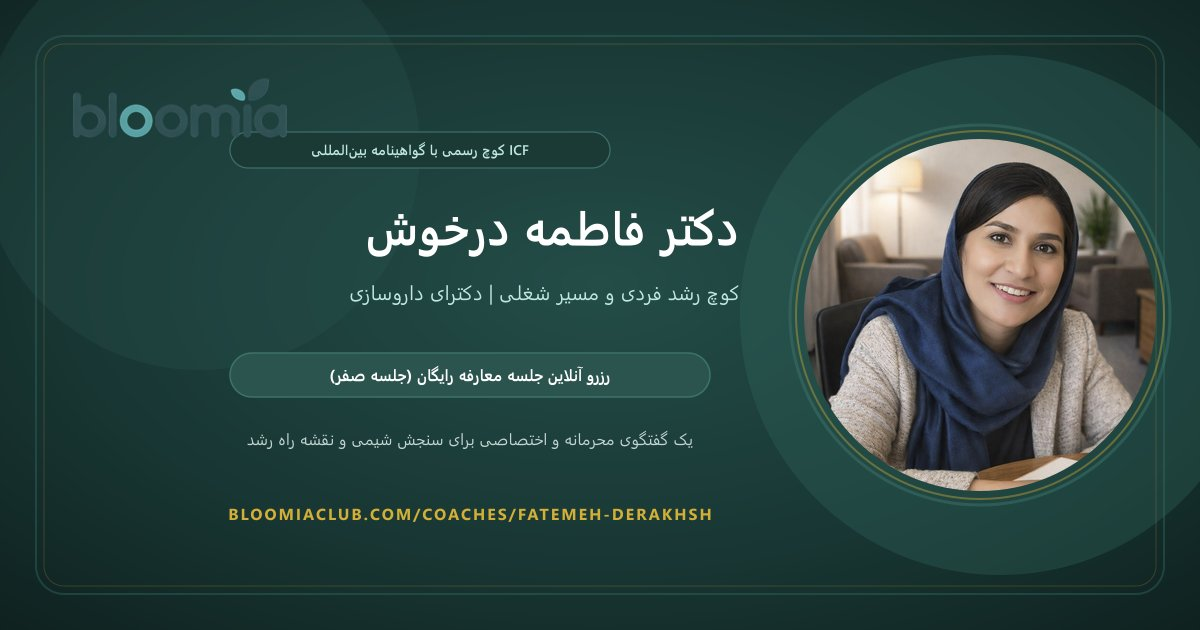
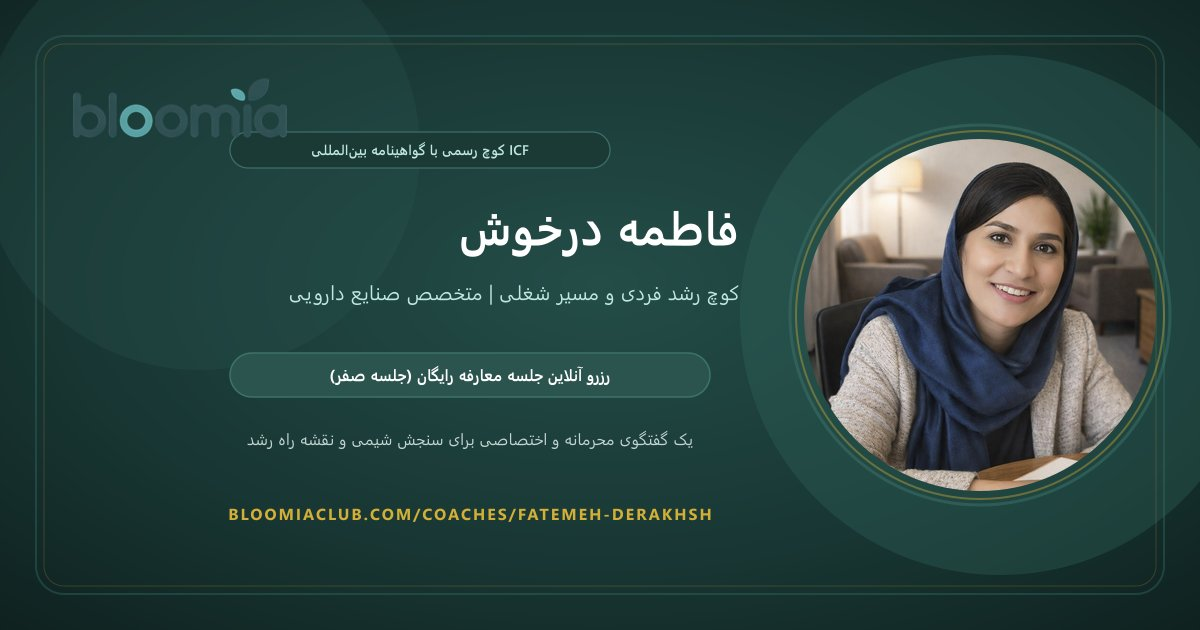
fix(coach): update Fatemeh Darkhosh title to pharmaceutical specialist and remove doctorate prefix

Changed region(s): [[0.3083, 0.3317, 0.6167, 0.4222], [0.2467, 0.4524, 0.4008, 0.4825]]

diff --git a/src/lib/coaches.ts b/src/lib/coaches.ts
@@ -1441,18 +1441,18 @@ export const fallbackCoaches: CoachProfile[] = [
   },
 
   // ==========================================
-  // FATEMEH DERAKHSH (دکتر فاطمه درخوش)
+  // FATEMEH DERAKHSH (فاطمه درخوش)
   // ==========================================
   {
     id: 'coach-profile-fatemeh-derakhsh',
     slug: 'fatemeh-derakhsh',
-    name: 'دکتر فاطمه درخوش',
-    title: 'کوچ رشد فردی و مسیر شغلی | دکترای داروسازی',
+    name: 'فاطمه درخوش',
+    title: 'کوچ رشد فردی و مسیر شغلی | متخصص صنایع دارویی',
     eyebrow: 'کوچ حرفهای بلومیا',
-    shortBio: 'دکترای داروسازی، کوچ تایید شده ICF؛ همراهی با مراجعان در عبور از سردرگمی یا مکث در کار و زندگی برای کشف و بازطراحی مسیر اصیل.',
-    description: 'دکترای داروسازی، کوچ تایید شده ICF؛ همراهی با مراجعان در عبور از سردرگمی یا مکث در کار و زندگی برای کشف و بازطراحی مسیر اصیل.',
-    longBio: `من دکتر فاطمه درخوش هستم؛ با بیش از ۱۰ سال سابقه فعالیت حرفهای در صنعت دارو، تجربه چندین ساله در دانشگاه و آموزش تخصصی، و کوچ حرفهای مورد تأیید فدراسیون بینالمللی کوچینگ آمریکا (ICF).\n\nدر مسیر کاریام، بارها با متخصصان و افرادی مواجه شدم که از نگاه بیرونی کاملاً «موفق» به نظر میرسیدند، اما در درون، دچار سردرگمی، فرسودگی یا نارضایتی شغلی بودند؛ و خودم نیز این تجربهها را در مقاطع مختلف زندگی زیستهام. همین تجربیات ارزشمند باعث شد تا عمیقاً به موضوع خودشناسی فردی و شغلی، تصمیمگیری آگاهانه و بازتعریف نسبت انسان با کار و زندگی بپردازم.\n\nدر جلسات کوچینگ، با ترکیب نگاه تحلیلی، تجربه زیسته و چارچوبهای حرفهای ICF، همراه مراجعان میشوم تا به جای دریافت نسخههای آماده، به بینش، شفافیت و انتخابهای اصیل خودشان برسند. باور من این است که تغییر پایدار از درک عمیق خود و پذیرش مسئولیت انتخابها آغاز میشود؛ و کوچینگ فضایی امن و بدون قضاوت است برای مکث، دیدن و دوباره انتخابکردن.`,
-    longDescription: `من دکتر فاطمه درخوش هستم؛ با بیش از ۱۰ سال سابقه فعالیت حرفهای در صنعت دارو، تجربه چندین ساله در دانشگاه و آموزش تخصصی، و کوچ حرفهای مورد تأیید فدراسیون بینالمللی کوچینگ آمریکا (ICF).\n\nدر مسیر کاریام، بارها با متخصصان و افرادی مواجه شدم که از نگاه بیرونی کاملاً «موفق» به نظر میرسیدند، اما در درون، دچار سردرگمی، فرسودگی یا نارضایتی شغلی بودند؛ و خودم نیز این تجربهها را در مقاطع مختلف زندگی زیستهام. همین تجربیات ارزشمند باعث شد تا عمیقاً به موضوع خودشناسی فردی و شغلی، تصمیمگیری آگاهانه و بازتعریف نسبت انسان با کار و زندگی بپردازم.\n\nدر جلسات کوچینگ، با ترکیب نگاه تحلیلی، تجربه زیسته و چارچوبهای حرفهای ICF، همراه مراجعان میشوم تا به جای دریافت نسخههای آماده، به بینش، شفافیت و انتخابهای اصیل خودشان برسند. باور من این است که تغییر پایدار از درک عمیق خود و پذیرش مسئولیت انتخابها آغاز میشود؛ و کوچینگ فضایی امن و بدون قضاوت است برای مکث، دیدن و دوباره انتخابکردن.`,
+    shortBio: 'متخصص صنایع دارویی، کوچ تایید شده ICF؛ همراهی با مراجعان در عبور از سردرگمی یا مکث در کار و زندگی برای کشف و بازطراحی مسیر اصیل.',
+    description: 'متخصص صنایع دارویی، کوچ تایید شده ICF؛ همراهی با مراجعان در عبور از سردرگمی یا مکث در کار و زندگی برای کشف و بازطراحی مسیر اصیل.',
+    longBio: `من فاطمه درخوش هستم؛ با بیش از ۱۰ سال سابقه فعالیت حرفهای در صنعت دارو، تجربه چندین ساله در دانشگاه و آموزش تخصصی، و کوچ حرفهای مورد تأیید فدراسیون بینالمللی کوچینگ آمریکا (ICF).\n\nدر مسیر کاریام، بارها با متخصصان و افرادی مواجه شدم که از نگاه بیرونی کاملاً «موفق» به نظر میرسیدند، اما در درون، دچار سردرگمی، فرسودگی یا نارضایتی شغلی بودند؛ و خودم نیز این تجربهها را در مقاطع مختلف زندگی زیستهام. همین تجربیات ارزشمند باعث شد تا عمیقاً به موضوع خودشناسی فردی و شغلی، تصمیمگیری آگاهانه و بازتعریف نسبت انسان با کار و زندگی بپردازم.\n\nدر جلسات کوچینگ، با ترکیب نگاه تحلیلی، تجربه زیسته و چارچوبهای حرفهای ICF، همراه مراجعان میشوم تا به جای دریافت نسخههای آماده، به بینش، شفافیت و انتخابهای اصیل خودشان برسند. باور من این است که تغییر پایدار از درک عمیق خود و پذیرش مسئولیت انتخابها آغاز میشود؛ و کوچینگ فضایی امن و بدون قضاوت است برای مکث، دیدن و دوباره انتخابکردن.`,
+    longDescription: `من فاطمه درخوش هستم؛ با بیش از ۱۰ سال سابقه فعالیت حرفهای در صنعت دارو، تجربه چندین ساله در دانشگاه و آموزش تخصصی، و کوچ حرفهای مورد تأیید فدراسیون بینالمللی کوچینگ آمریکا (ICF).\n\nدر مسیر کاریام، بارها با متخصصان و افرادی مواجه شدم که از نگاه بیرونی کاملاً «موفق» به نظر میرسیدند، اما در درون، دچار سردرگمی، فرسودگی یا نارضایتی شغلی بودند؛ و خودم نیز این تجربهها را در مقاطع مختلف زندگی زیستهام. همین تجربیات ارزشمند باعث شد تا عمیقاً به موضوع خودشناسی فردی و شغلی، تصمیمگیری آگاهانه و بازتعریف نسبت انسان با کار و زندگی بپردازم.\n\nدر جلسات کوچینگ، با ترکیب نگاه تحلیلی، تجربه زیسته و چارچوبهای حرفهای ICF، همراه مراجعان میشوم تا به جای دریافت نسخههای آماده، به بینش، شفافیت و انتخابهای اصیل خودشان برسند. باور من این است که تغییر پایدار از درک عمیق خود و پذیرش مسئولیت انتخابها آغاز میشود؛ و کوچینگ فضایی امن و بدون قضاوت است برای مکث، دیدن و دوباره انتخابکردن.`,
     imageUrl: 'https://cdn.sanity.io/images/7yjhdw88/production/41f62ec8f93c6d2603daa60dbfb483937df3af6e-1024x1024.png',
     cutoutImageUrl: '/images/solea/fatemeh_derakhsh_hero_v4.png',
     coverImage: 'https://cdn.sanity.io/images/7yjhdw88/production/41f62ec8f93c6d2603daa60dbfb483937df3af6e-1024x1024.png',
@@ -1547,8 +1547,8 @@ export const fallbackCoaches: CoachProfile[] = [
       },
     ],
     welcomePacket: {
-      title: 'بسته راهنمای خدمات کوچینگ با دکتر فاطمه درخوش',
-      subtitle: 'راهنمای جامع ورود به فرآیند کوچینگ رشد فردی و مسیر شغلی؛ تبیین نقش کوچ و مراجع، منشور محرمانگی، ساختار جلسات و آمادگی کامل برای جلسه معارفه رایگان با دکتر فاطمه درخوش.',
+      title: 'بسته راهنمای خدمات کوچینگ با فاطمه درخوش',
+      subtitle: 'راهنمای جامع ورود به فرآیند کوچینگ رشد فردی و مسیر شغلی؛ تبیین نقش کوچ و مراجع، منشور محرمانگی، ساختار جلسات و آمادگی کامل برای جلسه معارفه رایگان با فاطمه درخوش.',
       fileUrl: '/documents/welcome-packets/fatemeh_darkhosh_welcome_packet.pdf',
       coverImageUrl: '/images/solea/fatemeh_darkhosh_welcome_packet_cover.png',
       buttonText: 'دریافت بسته راهنما (PDF)',
@@ -1574,7 +1574,7 @@ export const fallbackCoaches: CoachProfile[] = [
       },
     ],
     credentials: [
-      { id: 'c1', title: 'دکترای داروسازی (Pharm.D) و سابقه ۱۰ ساله در صنعت دارو', organization: 'دانشگاه علوم پزشکی', year: '۲۰۱۵' },
+      { id: 'c1', title: 'متخصص صنایع دارویی با بیش از ۱۰ سال سابقه در صنعت دارو', organization: 'صنایع دارویی و آموزش تخصصی', year: '۱۳۹۲' },
       { id: 'c2', title: 'کوچ حرفهای بینالمللی مورد تایید ICF', organization: 'فدراسیون بینالمللی کوچینگ (ICF)' },
       { id: 'c3', title: 'مدرس و محقق دانشگاهی در حوزه آموزش تخصصی' },
       { id: 'c4', title: 'متخصص خودشناسی فردی و شغلی و تصمیمگیری آگاهانه' },

diff --git a/BLOG_CATALOG.md b/BLOG_CATALOG.md
@@ -12,7 +12,7 @@
   - **محیا شکوری (`mahya_shakoori`):** ۴ مقاله (تمرکز: باورهای محدودکننده، مرزگذاری سالم، صلح با منتقد درون، سندروم ایمپاستر و شایستگی درونی)
   - **سالومه فتحیجو (`saloomeh_fathijou`):** ۴ مقاله (تمرکز: وضوح درونی، کشف ارزشهای اصیل، تحول آگاهانه، هنر رها کردن، گذار میانسالی و طراحی سبک زندگی اصیل)
   - **پیام اسمی (`payam-esmi`):** ۴ مقاله (تمرکز: مدیریت زمان، انضباط فردی، غلبه بر اهمالکاری، تله پرمشغلگی، تمرکز عمیق و مدیریت انرژی)
-  - **دکتر فاطمه درخوش (`fatemeh-derakhsh`):** ۳ مقاله (تمرکز: تغییر مسیر شغلی، فعالیت جانبی، استقرار در خویشتن، سردرگمی شغلی و بازطراحی کار)
+  - **فاطمه درخوش (`fatemeh-derakhsh`):** ۳ مقاله (تمرکز: تغییر مسیر شغلی، فعالیت جانبی، استقرار در خویشتن، سردرگمی شغلی و بازطراحی کار)
   - **آرزو غفاری (`Arezoo_Ghaffari`):** ۳ مقاله (تمرکز: رویکرد ACT، تئوری انتخاب و واقعیتدرمانی، رهایی از نشخوار فکری، دایره کنترل و روابط سالم)
   - **مریم جوهری (`maryam_johari`):** ۲ مقاله (تمرکز: خودشناسی، شفقت به خود، تعادل احساسی، هضم هیجانات دشوار و سازه روان)
   - **شبنم نعمتیملک (`shabnam_nematimalek`):** ۲ مقاله (تمرکز: خودآگاهی عمیق، سواد هیجانی، اعتمادبهنفس اصیل و شایستگی درونی)
@@ -36,7 +36,7 @@
 | ۱ | **مدیریت انرژی به جای مدیریت زمان: چرا برنامهریزی ساعتها شکست میخورد و چگونه ظرفیت عملکردی خود را تجدید کنیم؟** | `energy-management-vs-time-management-coaching` | پیام اسمی | مدیریت زمان و بهرهوری | مرد متخصص و استراتژیست ایرانی با پوشش شیک سبز تیره در آتلیه کاری در تهران در حال تماشای ریتم ساعت شنی برنجی روی میز چوب  | بیشتر ما روزهای کاریمان را بر مبنای تقویمهای فشرده و تودولیستهای پرجزئیات میچینیم، اما ساعت دو بعدازظهر با افت شدید تمرکز و بدنی فرسوده روبرو میشویم. حقیقت |
 | ۲ | **معماری سبک زندگی اصیل: چگونه کار، روابط و خلوت خود را بر اساس ریتم طبیعی روان بازطراحی کنیم؟** | `lifestyle-design-and-authentic-living-coaching-guide` | سالومه فتحیجو | رشد فردی و خودشناسی | بانوی معمار و متفکر ایرانی در حیاط پاویون معاصر در شیراز در حال چیدمان نمونه مصالح طبیعی معماری و یادداشتبرداری در آرام | زندگی بیشتر ما نه بر اساس طراحی آگاهانه، بلکه تحت فرمان اضطرارهای محیطی و انتظارات تحمیلی دیگران سپری میشود؛ وضعیتی فرساینده که در آن همواره در حال دویدن روی ت |
 | ۳ | **سندروم ایمپاستر و تله فریبکار درون: چرا موفقیتهایمان را باور نداریم و چگونه شایستگی اصیل را در کوچینگ احیا کنیم؟** | `imposter-syndrome-feeling-like-a-fraud-coaching-guide` | محیا شکوری | رشد فردی و خودشناسی | بانوی هنرمند و متفکر ایرانی در کارگاه بازآفرینی هنر و گیاهشناسی در تهران در حال تماشای اثر برگ گیاهی در نور ملایم صبحگا | ترس فلجکننده از اینکه مبادا روزی دیگران بفهمند آنقدرها هم که فکر میکنند ماهر نیستیم، گریبانگیر بسیاری از توانمندترین متخصصان و مدیران است. با راهنمای جامع کو |
-| ۴ | **خروج از سردرگمی شغلی: چگونه وقتی در کار احساس بیمعنایی میکنیم اما نمیدانیم چه میخواهیم، قطبنمای حرفهای بسازیم؟** | `navigating-career-confusion-and-finding-direction-coaching` | دکتر فاطمه درخوش | مسیر شغلی و رشد فردی | بانوی متخصص و متفکر ایرانی با پوشش موقر سبز زمردی و شال خاکی در آتلیه معماری و پژوهشی با پرگار نقشهخوانی روی نقشه کارشن | بیدار شدن هر روزه با حسی مبهم از بیمعنایی و پوچی در شغلی که روزگاری برایش تلاش کردیم، یکی از فلجکنندهترین تجربیات بزرگسالی است؛ به ویژه وقتی نمیدانیم در صور |
+| ۴ | **خروج از سردرگمی شغلی: چگونه وقتی در کار احساس بیمعنایی میکنیم اما نمیدانیم چه میخواهیم، قطبنمای حرفهای بسازیم؟** | `navigating-career-confusion-and-finding-direction-coaching` | فاطمه درخوش | مسیر شغلی و رشد فردی | بانوی متخصص و متفکر ایرانی با پوشش موقر سبز زمردی و شال خاکی در آتلیه معماری و پژوهشی با پرگار نقشهخوانی روی نقشه کارشن | بیدار شدن هر روزه با حسی مبهم از بیمعنایی و پوچی در شغلی که روزگاری برایش تلاش کردیم، یکی از فلجکنندهترین تجربیات بزرگسالی است؛ به ویژه وقتی نمیدانیم در صور |
 | ۵ | **پارادوکس کنترل در روابط عاطفی: چرا تلاش برای تغییر دیگری صمیمیت را میکشد و چگونه رابطهای امن بسازیم؟** | `control-paradox-in-relationships-act-coaching-guide` | آرزو غفاری | روانشناسی و رشد فردی | گفتگوی همدلانه، امن و سرشار از صمیمیت زوج جوان ایرانی در ایوان باغ تاریخی بدون کنترلگری و باجدهی | بسیاری از تعارضات فرساینده در روابط عاطفی، نه از نبود عشق، بلکه از توهم کنترل سرچشمه میگیرند. ما گمان میکنیم با انتقاد، تذکر مدام، کنترلگری یا باجدهی عاطفی  |
 | ۶ | **دوستی با احساسات دشوار: چرا فرار از غم و خشم به فرسودگی میانجامد و چگونه به تعادل احساسی برسیم؟** | `befriending-difficult-emotions-and-emotional-balance-coaching` | مریم جوهری | رشد فردی و خودشناسی | بانوی متفکر و معمار ایرانی در آتلیه طراحی در حال تنظیم مجسمه تعادلی چوبی و سنگی نماد تعادل احساسی و استحکام روان | جامعه به ما آموخته که همواره قوی، شاد و مسلط جلوه کنیم؛ غافل از اینکه انکار احساسات سنگینی چون خشم، غم، حسادت و اضطراب، انرژی حیاتی روان را میبلعد. با راهنمای  |
 | 7 | **تله تظاهر به قوی بودن: چرا اعتمادبهنفس اصیل با سرسختی ساخته نمیشود و چگونه حس شایستگی درونی را احیا کنیم؟** | `authentic-confidence-vs-pretending-to-be-strong` | شبنم نعمتیملک | رشد فردی و خودشناسی | بانوی باوقار و متخصص ایرانی در فضای مدرن و باز یک پردیس فرهنگی با گامهای مطمئن و نگاهی نافذ و آرام بدون هیچ زره تصنعی | تظاهر مداوم به سرسختی و شکستناپذیری، در باطن به فرسودگی عاطفی و تنهایی عمیق میانجامد. اعتمادبهنفس اصیل از پذیرش آسیبپذیری و استقرار در شایستگی درونی سرچشمه میگیرد. |
@@ -52,7 +52,7 @@
 | 17 | **سواد هیجانی و خودآگاهی: چرا فهمیدن احساسات مهمتر از کنترل یا سرکوب آنهاست؟** | `emotional-literacy-and-self-awareness-coaching` | شبنم نعمتیملک | رشد فردی و خودشناسی | مسیر بازتاب درونی و تفکر فردی در فضای خلوت | رمزگشایی از پیام هیجانات ناخوشایند، پارادوکس سرکوب، دقت هیجانی (Emotional Granularity)، متد ۴ مرحلهای خودآگاهی هیجانی در کوچینگ. |
 | 18 | **معماری زندگی اصیل: چگونه با کشف ارزشهای فردی از سردرگمی در دوراهیها رها شویم؟** | `discovering-core-values-inner-clarity-coaching` | سالومه فتحیجو | رشد فردی و خودشناسی | معماری ساختار ذهن و ستونهای شفاف ارزشها | خروج از فلج تصمیمگیری در دوراهیها، تمایز ارزش با هدف و توهم مقصد، ۴ گام کشف ارزشهای اصیل با استعاره معماری شالوده روان. |
 | 19 | **هنر شفقت به خود: چرا مهربانی با خود، قویترین ابزار رشد و تابآوری است؟** | `art-of-self-compassion-coaching-guide` | مریم جوهری | رشد فردی و خودشناسی | آرامش و در آغوش کشیدن خویشتن با حس رهایی | واکاوی ریشههای سرزنش درون، مثلث طلایی شفقت به خود (مهربانی، انسانیت مشترک، ذهنآگاهی)، استعاره مهندسی شکلپذیری سازه روان. |
-| 20 | **شروع بدون استعفا: چگونه با یک فعالیت جانبی مسیر شغلی جدید خود را بسازیم؟** | `career-transition-side-hustle-coaching` | دکتر فاطمه درخوش | مسیر شغلی و رشد فردی | لپتاپ و گیاه آپارتمانی نماد رشد تدریجی کسبوکار | شروع تغییر شغل بدون استعفای زودهنگام، شکستن ترس از کلمه بیزینس، نردبان ۴ پلهای گذار از نقش اصلی به کسبوکار با فعالیت جانبی. |
+| 20 | **شروع بدون استعفا: چگونه با یک فعالیت جانبی مسیر شغلی جدید خود را بسازیم؟** | `career-transition-side-hustle-coaching` | فاطمه درخوش | مسیر شغلی و رشد فردی | لپتاپ و گیاه آپارتمانی نماد رشد تدریجی کسبوکار | شروع تغییر شغل بدون استعفای زودهنگام، شکستن ترس از کلمه بیزینس، نردبان ۴ پلهای گذار از نقش اصلی به کسبوکار با فعالیت جانبی. |
 | 21 | **هنر مرزگذاری سالم در روابط: چگونه بدون احساس گناه نه بگوییم؟** | `healthy-boundaries-how-to-say-no-without-guilt` | محیا شکوری | رشد فردی و خودشناسی | مرزگذاری محترمانه و گفتگوی قاطعانه در محیط تعاملی | رهایی از تله تاییدطلبی، تفکیک مرزهای سالم از خودخواهی، ۴ گام کوچینگ برای گفتن نه قاطع و محترمانه. |
 | 22 | **چگونه از جنگ با ذهن دست برداریم؟ راهنمای رهایی از نشخوار فکری و اضطراب با رویکرد ACT** | `how-to-stop-fighting-your-mind-act-coaching-guide` | آرزو غفاری | روانشناسی و رشد فردی | رهایی از تقلا با ذهن و تماشای برگهای روی آب | مهار نشخوار ذهنی با گسلش شناختی، اجتناب تجربی، ششضلعی انعطافپذیری روانی و اقدام متعهدانه مبتنی بر ارزشها. |
 | 23 | **چگونه با فرزند نوجوان خود صحبت کنیم که بشنود؟ راهنمای کوچینگ برای مهار تعارضهای سن بلوغ** | `how-to-talk-to-teens-coaching-guide` | فاطمه اسماعیلی | کوچینگ مادران و نوجوانان | گفتگوی همدلانه مادر و فرزند نوجوان در فضای خانه | حل تعارضات بلوغ، گذر از نصیحت به پرسشگری کوچینگی، به رسمیت شناختن استقلال فکری نوجوان و احیای پیوند عاطفی. |
@@ -65,7 +65,7 @@
 | 30 | **کوچینگ و مدیریت اولویتها برای مادران: چطور بین کار، خانواده و خودت تعادل برقرار کنی؟** | `coaching-for-moms-prioritizing-what-really-matters` | فاطمه اسماعیلی | کوچینگ مادران | چیدمان اولویتها در محیط زندگی روزمره | رهایی از خستگی مفرط مادران شاغل، تفکیک امور فوری از مهم و آزادسازی روزانه حداقل یک ساعت زمان اختصاصی برای خود. |
 | 31 | **چگونه تعادل واقعی بین کار و زندگی را پیدا کنیم؟ (و چرا کمالگرایی دشمن شماست)** | `work_life_balance_coaching` | فاطمه اسماعیلی | تعادل کار و زندگی | هماهنگی پویای ابعاد شغلی و خانوادگی | رد توهم تقسیم ۵۰-۵۰، ساخت هارمونی پویا میان ابعاد زندگی، تعیین مرزهای شغلی در منزل و غلبه بر کمالگرایی فرساینده. |
 | 32 | **معماری تمرکز عمیق: چگونه در عصر حواسپرتی دیجیتال توجه خود را نجات دهیم؟** | `deep-work-and-digital-distraction-coaching` | پیام اسمی | مدیریت زمان و بهرهوری | مرد متخصص ایرانی در فضای کاری آرام با نور ملایم، میز چوب گردو، دور بودن گوشی از دسترس و دفتر برنامهریزی | پراکندگی توجه و پرش مداوم میان ابزارهای دیجیتال، پسماند توجه ایجاد میکند. راهنمای جامع کوچینگ برای ساخت بلوکهای تمرکز عمیق (Deep Work) و آیین پایان روز. |
-| 33 | **در خودت مستقر بمان: راهنمای کوچینگ برای حفظ مرکز کنترل درونی** | `staying-grounded-in-yourself-internal-locus-of-control` | دکتر فاطمه درخوش | رشد فردی و خودشناسی | زن آرام و متین ایرانی با پوشش موقر در حیاط تاریخی با ثبات و آرامش درونی در میان وزش باد پاییزی | استقرار در خویشتن به معنای انتقال مرکز مهار و ارزیابی زندگی از عوامل بیرونی به کانون ارزشها و اصول درونی در مواجهه با تلاطمهای ذهنی و هیاهو است. |
+| 33 | **در خودت مستقر بمان: راهنمای کوچینگ برای حفظ مرکز کنترل درونی** | `staying-grounded-in-yourself-internal-locus-of-control` | فاطمه درخوش | رشد فردی و خودشناسی | زن آرام و متین ایرانی با پوشش موقر در حیاط تاریخی با ثبات و آرامش درونی در میان وزش باد پاییزی | استقرار در خویشتن به معنای انتقال مرکز مهار و ارزیابی زندگی از عوامل بیرونی به کانون ارزشها و اصول درونی در مواجهه با تلاطمهای ذهنی و هیاهو است. |
 
 
 
@@ -125,7 +125,7 @@
 - **معماری تصمیمگیری در تحول فردی:** گامهای خروج ایمن از موقعیتهای فرسایشدهنده و ساخت کارراهه معنادار.
 - **سکوت و خلوتگزینی آگاهانه:** بازیابی انرژی روانی و آرامش در دنیای سرشار از اضافهبار حسی.
 
-### ۴. دکتر فاطمه درخوش (`fatemeh-derakhsh` - دکترای داروسازی، کوچ رشد فردی و مسیر شغلی ICF)
+### ۴. فاطمه درخوش (`fatemeh-derakhsh` - متخصص صنایع دارویی، کوچ رشد فردی و مسیر شغلی ICF)
 *موضوعات کارشده:*
 - شروع تغییر مسیر شغلی بدون استعفا با فعالیت درآمدزای جانبی (Side Hustle).
 - در خودت مستقر بمان: راهنمای کوچینگ برای حفظ مرکز کنترل درونی.

diff --git a/COACHES_CATALOG.md b/COACHES_CATALOG.md
@@ -25,7 +25,7 @@
 | 4 | **شبنم نعمتیملک** | `shabnam_nematimalek` | کوچ رشد فردی و خودآگاهی | خودشناسی، وضوح ذهنی، اعتماد بهنفس | +850 ساعت | 5 | ✅ فعال |
 | 5 | **سالومه فتحیجو** | `saloomeh_fathijou` | کوچ حرفهای و تسهیلگر تحول فردی | خودشناسی، وضوح درونی، تحول آگاهانه | +950 ساعت | 5 | ✅ فعال |
 | 6 | **مریم جوهری** | `maryam_johari` | کوچ رشد فردی و خودشناسی | خودشناسی، شفقت به خود، تعادل احساسی | +700 ساعت | 5 | ✅ فعال |
-| 7 | **دکتر فاطمه درخوش** | `fatemeh-derakhsh` | کوچ رشد فردی و مسیر شغلی | رشد فردی، مسیر شغلی، خودشناسی | +100 ساعت | 5 | ✅ فعال |
+| 7 | **فاطمه درخوش** | `fatemeh-derakhsh` | کوچ رشد فردی و مسیر شغلی | خودشناسی، مسیر شغلی، متخصص صنایع دارویی | +100 ساعت | 5 | ✅ فعال |
 | 8 | **پیام اسمی** | `payam-esmi` | کوچ هدفمندی، مدیریت زمان و انضباط فردی | مدیریت زمان، برنامهریزی استراتژیک، مهار اهمالکاری | +320 ساعت | 5 | ✅ فعال |
 | 9 | **پارمیس یاری** | `parmiss-yari` | لایف کوچ و تسهیلگر خودآگاهی | خودشناسی و آگاهی درونی، پرسشگری عمیق و وضوح ذهنی، بازبینی باورها و الگوهای فکری | +120 ساعت | 5 | ✅ فعال |
 
@@ -107,13 +107,13 @@
   2. [دوستی با احساسات دشوار: چرا فرار از غم و خشم به فرسودگی میانجامد و چگونه به تعادل احساسی برسیم؟](https://bloomiaclub.com/blog/befriending-difficult-emotions-and-emotional-balance-coaching)
 - **لینک اختصاصی:** [bloomiaclub.com/coaches/maryam_johari](https://bloomiaclub.com/coaches/maryam_johari)
 
-### دکتر فاطمه درخوش (`fatemeh-derakhsh`)
-- **عنوان:** کوچ رشد فردی و مسیر شغلی | دکترای داروسازی
+### فاطمه درخوش (`fatemeh-derakhsh`)
+- **عنوان:** کوچ رشد فردی و مسیر شغلی | متخصص صنایع دارویی
 - **اسلاگ:** `fatemeh-derakhsh`
 - **شناسه پروفایل سنتی:** `coach-profile-fatemeh-derakhsh`
 - **شناسه نویسنده بلاگ:** `coach-fatemeh-derakhsh`
 - **تخصصها:** خودشناسی فردی و شغلی | شفافسازی مسیر حرفهای | تصمیمگیری آگاهانه | عبور از سردرگمی و فرسودگی | تعادل کار و زندگی
-- **خلاصه معرفی:** دکترای داروسازی، کوچ تایید شده ICF؛ همراهی با مراجعان در عبور از سردرگمی یا مکث در کار و زندگی برای کشف و بازطراحی مسیر اصیل.
+- **خلاصه معرفی:** متخصص صنایع دارویی، کوچ تایید شده ICF؛ همراهی با مراجعان در عبور از سردرگمی یا مکث در کار و زندگی برای کشف و بازطراحی مسیر اصیل.
 - **بسته راهنمای مراجعان (Welcome Packet):** فعال با امکان دانلود مستقیم PDF اختصاصی (`/documents/welcome-packets/fatemeh_darkhosh_welcome_packet.pdf`)
 - **تعرفهها:**
   - تکجلسه اختصاصی (۶۰ دقیقه): ۸۵۰,۰۰۰ تومان
@@ -170,4 +170,4 @@
 2. **قانون بدون ایموجی:** در هیچکدام از فیلدهای نام، عنوان، بیو، تخصصها و بستهها نباید از هیچ ایموجی استفاده شود.
 3. **فرمت اسلاگ:** اسلاگ انگلیسی تمیز و یکدست با خط تیره (مانند `sara-mohammadi`).
 4. **تطبیق خودکار نویسنده:** با ثبت کوچ، سند نویسنده بلاگ (`coach-<slug>`) و بکآپ سوپابیس به صورت خودکار ساخته میشوند.
-5. **بسته راهنمای مراجعان (Welcome Packet یا ICF):** کوچهایی که بسته اختصاصی طراحیشده دارند (مانند پیام اسمی، فاطمه اسماعیلی و دکتر فاطمه درخوش) فایل ولکام پک خودشان را دریافت میکنند؛ برای تمامی سایر کوچها که ولکام پک اختصاصی ندارند، سند رسمی شایستگیهای بنیادین فدراسیون بینالمللی کوچینگ (ICF Core Competencies) با کاور اختصاصی و دانلود مستقیم سند ICF ارائه میشود.
+5. **بسته راهنمای مراجعان (Welcome Packet یا ICF):** کوچهایی که بسته اختصاصی طراحیشده دارند (مانند پیام اسمی، فاطمه اسماعیلی و فاطمه درخوش) فایل ولکام پک خودشان را دریافت میکنند؛ برای تمامی سایر کوچها که ولکام پک اختصاصی ندارند، سند رسمی شایستگیهای بنیادین فدراسیون بینالمللی کوچینگ (ICF Core Competencies) با کاور اختصاصی و دانلود مستقیم سند ICF ارائه میشود.

diff --git a/.agents/skills/bloomia-coach-onboarder/SKILL.md b/.agents/skills/bloomia-coach-onboarder/SKILL.md
@@ -105,7 +105,7 @@ description: >-
 - ۳ الی ۵ پرسش مراجعین با پاسخهای مستقیم، کوتاه و مستند در جمله اول (بهینهشده برای Google AI Overviews و Perplexity).
 
 ### ۱۰. بسته راهنما و دانلود سند رسمی ICF (Welcome Packet & Core Competencies)
-- برای کوچهایی که فایل اختصاصی Welcome Packet دارند (مانند پیام اسمی، فاطمه اسماعیلی و دکتر فاطمه درخوش)، سند PDF اختصاصی و کاور اختصاصی آنها لود میشود.
+- برای کوچهایی که فایل اختصاصی Welcome Packet دارند (مانند پیام اسمی، فاطمه اسماعیلی و فاطمه درخوش)، سند PDF اختصاصی و کاور اختصاصی آنها لود میشود.
 - **استاندارد فالبک رسمی ICF:** برای تمام کوچهایی که هنوز بسته اختصاصی ندارند (محیا شکوری، سالومه فتحیجو، آرزو غفاری، شبنم نعمتیملک، مریم جوهری، پارمیس یاری)، سند رسمی **«شایستگیهای بنیادین کوچینگ (ICF Core Competencies)»** به صورت خودکار به همراه کاور رسمی (`/images/solea/icf_competencies_cover.png`) و فایل PDF رسمی در دسترس قرار میگیرد:
   - فایل محلی امن و بدون تحریم: `/documents/welcome-packets/icf-core-competencies.pdf`
   - آدرس CDN پرسرعت سنتی: `https://cdn.sanity.io/files/7yjhdw88/production/814cabeee151b2b9a19d6f71cefcbf0b64e17c66.pdf`
